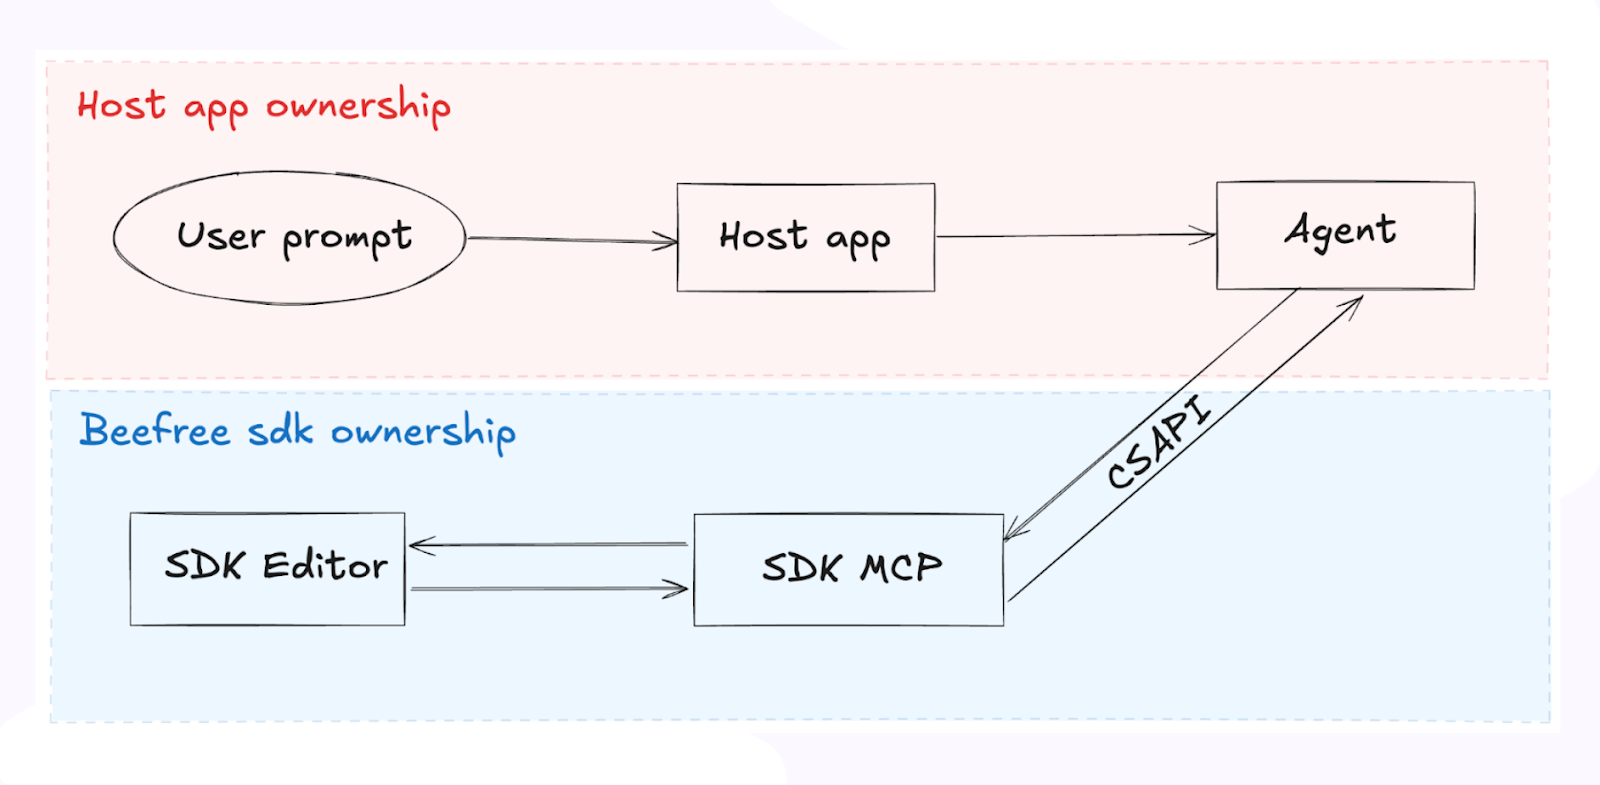
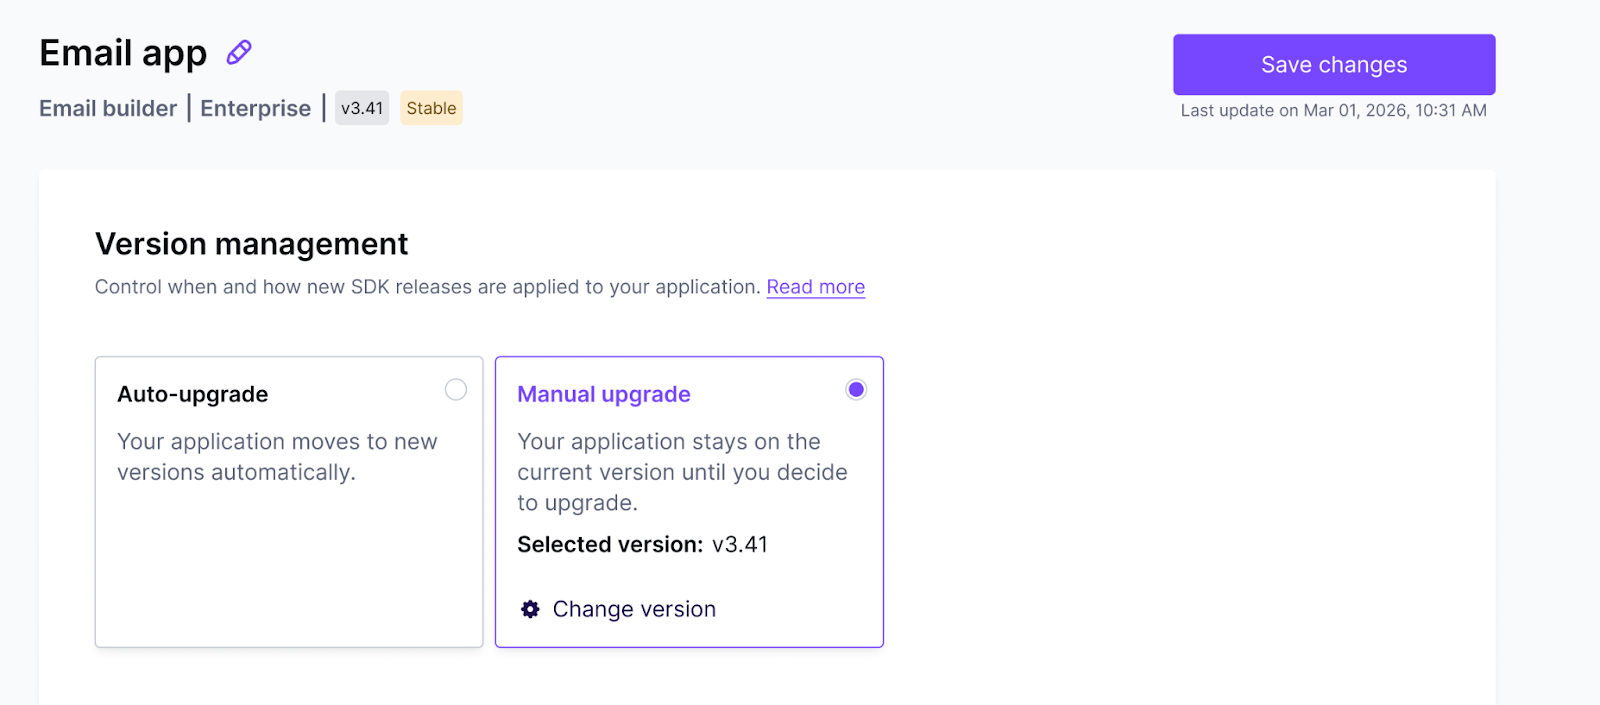
GITBOOK-569: EVC docs update

diff --git a/getting-started/version-control.md b/getting-started/version-control.md
@@ -1,0 +1,135 @@
+---
+description: >-
+  Learn more about our release lifecycle and how you can control which SDK
+  version applies to your application.
+---
+
+# Version Control
+
+{% hint style="info" %}
+Version Control will be available for customers [Enterprise plans](https://developers.beefree.io/pricing-plans) starting June, 2026.&#x20;
+
+If you’re on another plan type, the latest version of the Beefree SDK will automatically apply to your application(s) as soon as it becomes available.
+{% endhint %}
+
+### Overview
+
+Enterprise Version Control gives you control over when Beefree SDK updates are applied to your applications. Rather than receiving releases automatically on Beefree's timeline, you can decide when each new SDK version takes effect — per application, on your own schedule. This includes both Development and Production applications.
+
+Because you have control over the SDK release timing, you can, for example:&#x20;
+
+* Decide if you’d like to take advantage of new SDK features as soon as possible — or if you prefer fewer releases
+* Give your team more time for QA (and only upgrade your production application once QA in your development application is completed)
+* Align SDK releases with your internal release calendar&#x20;
+* Prevent SDK releases from reaching your production applications during high-traffic periods (e.g. during the holiday season)
+
+### How version control works
+
+#### The version lifecycle
+
+Beefree releases new SDK versions approximately every three weeks. Each SDK version moves through distinct phases:
+
+* **Latest** — When a new version is released, it is marked as the Latest release. It is the most current SDK version available.
+* **Stable** — When the next new version is released, the previous version moves into Stable mode. A Stable version is supported for 8 weeks from that point, meaning every version remains available for a minimum of 11 weeks total.
+* **End of Life** — After 8 weeks in Stable, a version reaches End of Life and is no longer available. If your application is still on a version that reaches End of Life, Beefree will automatically upgrade it to the newest Stable version. You will never be left on an unsupported version.
+
+#### Choosing your update strategy
+
+Each application is versioned independently. If you have multiple applications, you can point each one to a different version.&#x20;
+
+You manage version settings for your application(s) via the SDK Developer Console. Visit your application’s details, then select “Version” to enter version management settings.&#x20;
+
+From here, you can choose between two approaches for version management: Manual upgrade or Auto-upgrade:
+
+<figure><img src="../.gitbook/assets/version-control-modes.png" alt=""><figcaption></figcaption></figure>
+
+#### Manual upgrade
+
+When you select manual mode, we won’t automatically upgrade your applications. Instead, you will have to select which version you’d like to apply to your application:&#x20;
+
+<figure><img src="../.gitbook/assets/version-control-manual-upgrade.png" alt=""><figcaption></figcaption></figure>
+
+Here, you can see all available versions with their status (Latest or Stable), the date it was released, and when we expect it to reach End of Life. Click “More Details” if you’d like to see a detailed breakdown of what new features, improvements, and fixes are included in each version.&#x20;
+
+Once you select a version, you can decide how you’d like to handle open user sessions as you upgrade:&#x20;
+
+* **Apply immediately:** Your users with open sessions will be prompted to reload the page. The new version takes effect right away.
+* **On next session:** The new version applies the next time a user starts a new session (or within \~12 hours of a session start, based on session expiry).&#x20;
+
+For most cases, "on next session" is the lower-friction choice. Use "apply immediately" when a version change needs to take effect without delay.
+
+{% hint style="warning" %}
+**What happens when a version reaches End of Life?**\
+If you’ve selected Manual Mode and your application is on a version that reaches End of Life, we will automatically upgrade your application to the newest Stable version. You will never be left on an unsupported version.
+{% endhint %}
+
+#### Auto-upgrade
+
+Automatic-upgrade mode keeps your applications updated without manual intervention. You choose the update rule that best fits your preference:
+
+<figure><img src="../.gitbook/assets/image (1).png" alt="Beefree SDK Version Control: Automatic upgrades" width="472"><figcaption><p>Auto-upgrade in the Version Control settings of the Beefree SDK Console</p></figcaption></figure>
+
+<table data-header-hidden><thead><tr><th width="352">Option</th><th>Behavior</th></tr></thead><tbody><tr><td><strong>Option</strong></td><td><strong>Behavior</strong></td></tr><tr><td>Always up-to-date</td><td>Your application updates to the newest SDK version as soon as it is released. Choose this if you’d like to take advantage of new SDK features and updates without delay. </td></tr><tr><td>Stable releases only</td><td>Your application updates as soon as a new version moves into Stable mode. </td></tr><tr><td>Longest stability</td><td>Your application remains on the current version until it reaches End of Life, at which point it upgrades automatically to the newest Stable version. Choose this option if you prefer stability with fewer releases (and if you’re okay with skipping versions along the way) </td></tr></tbody></table>
+
+#### Default behavior
+
+By default, your applications are set to upgrade in Automatic Mode, and the following rules apply:&#x20;
+
+| **Application type**                        | **Default upgrade mode**                                                                                   |
+| ------------------------------------------- | ---------------------------------------------------------------------------------------------------------- |
+| Enterprise Development / Child apps         | As soon as possible: Development applications update to a new version as soon as it is released.           |
+| Enterprise Production / Parent applications | As soon as it's Stable: Production apps update as soon as a new version enters Stable mode.                |
+| Non-Enterprise applications                 | Latest (always). Non Enterprise customers don’t have the option to adjust the version or release schedule. |
+
+### Version history
+
+In the version management settings, you can also check an application’s version history. This overview shows you:<br>
+
+* When a version was applied to your app
+* What status was the version in when it was applied to your application
+* The upgrade type. This shows if the upgrade happened automatically, or through manual mode. If it was a manual update, you’ll also see which user made the change.&#x20;
+
+<figure><img src="../.gitbook/assets/beefree-sdk-version-history.png" alt=""><figcaption></figcaption></figure>
+
+### What's covered by versioning
+
+Enterprise Version Control covers the Beefree services that receive the most frequent updates:
+
+| Service                             | Description                                                                                                                       |
+| ----------------------------------- | --------------------------------------------------------------------------------------------------------------------------------- |
+| Beefree SDK frontend                | The user-facing drag-and-drop Builder and File Manager interface. It’s the part of the Beefree SDK that is loaded in the browser. |
+| HTML generation service             | The microservice responsible for turning users' designs into reliable and performing HTML.                                        |
+| Authentication and token validation | Manages SDK configurations via /authinfo URL and handles the refresh and validation of tokens.                                    |
+
+We may expand the list of covered services in future releases.
+
+***
+
+## Migration from the legacy Release Candidate model
+
+Previously, Beefree SDK Enterprise Customers received access to a Release Candidate (RC) environment two weeks before a new version went live in Enterprise production environments. While this provided a preview window to test out the latest Beefree SDK version, it didn't give you real control: updates still happened on Beefree's schedule, and we heard from some of you that two weeks wasn't always enough for thorough QA or release coordination.
+
+When we start rolling out Enterprise Version Control, it will replace this old model entirely. The RC environment will be fully retired in H2 2026. In its place, you get a versioned SDK with a [defined lifecycle](version-control.md#the-version-lifecycle) — and the flexibility to choose exactly when each version is applied to each of your applications.
+
+#### When does this change happen, and what do I need to know?
+
+We will begin migrating Enterprise customers to the new Enterprise Version Control infrastructure on June 3, 2026.
+
+On this date, the [default settings for Automatic Mode](version-control.md#default-behavior) will apply to your applications. Let’s recap what that means:&#x20;
+
+* **Development applications:** Your development applications will update to the newest SDK version (“Latest”) as soon as it is released. That means you always have the latest version of the SDK available for testing in your development apps.&#x20;
+* **Production applications:** Production apps update as soon as a new version enters Stable mode—that’s typically three weeks after the version was first released.&#x20;
+
+{% hint style="warning" %}
+These default settings largely replicate what you’ve experienced with our legacy Release Candidate (RC) approach: You get to test out the newest release in your development application before it gets pushed to your production application with a delay.&#x20;
+
+Please note: In our legacy release flow, there was typically a 2-week window between RC release and the delayed Enterprise production release. The new default settings under Enterprise Version control expand that period to three weeks.&#x20;
+{% endhint %}
+
+If you’re happy with these default settings, there’s nothing for you to do.&#x20;
+
+If you prefer a different behavior for automatic upgrades, or if you’d like to handle any version changes manually, visit the Version Control section in your applications’ settings to adjust the upgrade behavior to your preference.&#x20;
+
+#### Questions? We’re here to help.&#x20;
+
+If you have any questions about Enterprise Version Control or the migration process from our legacy Release Candidate approach, please reach out to your CSM or email us at [sdksupport@beefree.io](mailto:sdksupport@beefree.io).<br>

diff --git a/other-customizations/advanced-options/font-management.md b/other-customizations/advanced-options/font-management.md
@@ -54,6 +54,8 @@ Here is a more detailed description on how the editorFonts object is built:
 
 <table><thead><tr><th width="220">Parameter</th><th>Description</th></tr></thead><tbody><tr><td><code>showDefaultsFonts</code></td><td>This boolean parameter indicates if the entire list of default fonts is available or not. When the value is false, only the fonts added as custom fonts will be active in the editor.</td></tr><tr><td><code>customFonts</code></td><td>When the default font parameter is true, the custom fonts declared inside this object will be added to the list of default fonts: both are loaded into the editor. Otherwise, only custom fonts will be shown.<br>Each <code>customFonts</code> element can have the following properties:</td></tr><tr><td>Parameter</td><td>Description</td></tr><tr><td><code>name</code></td><td>This string will be shown in the font dropdown list. You can use the term you prefer and we suggest the usage of common font names, but you can go creative and use semantic names that fit on your application. Long strings may impact the interface, so we recommend to keep it short. The characters { } [ ] : ” / \ | ? * are invalid.</td></tr><tr><td><code>fontFamily</code></td><td>Describes the CSS font stack that will be applied to the final HTML. Is important that you provide at least one fallback font to ensure that the text is not displayed using an unwanted font family. Is important that you use single quote marks with the font names instead of double quotation marks to maintain a correct JSON syntax.</td></tr><tr><td><code>url</code></td><td>This parameter is used only when we work with web fonts. Is important that the URL points to a CSS file with the @font-face properties, and not directly to the font files. To work, the CSS must be hosted in HTTPS.</td></tr><tr><td><code>fontWeight</code></td><td>Adds a new option in the dropdown of the content block’s settings for title, button, paragraph, and list blocks (e.g. 100: Thin). If not defined, only Regular (400) and Bold (700) will be available.</td></tr></tbody></table>
 
+<table><thead><tr><th width="100">Parameter</th><th>Description</th></tr></thead><tbody><tr><td><code>name</code></td><td>This string will be shown in the font dropdown list. You can use the term you prefer and we suggest the usage of common font names, but you can go creative and use semantic names that fit on your application. Long strings may impact the interface, so we recommend to keep it short. The characters { } [ ] : ” / \ | ? * are invalid.</td></tr><tr><td><code>fontFamily</code></td><td>Describes the CSS font stack that will be applied to the final HTML. Is important that you provide at least one fallback font to ensure that the text is not displayed using an unwanted font family. Is important that you use single quote marks with the font names instead of double quotation marks to maintain a correct JSON syntax.</td></tr><tr><td><code>url</code></td><td>This parameter is used only when we work with web fonts. Is important that the URL points to a CSS file with the @font-face properties, and not directly to the font files. To work, the CSS must be hosted in HTTPS.</td></tr><tr><td><code>fontWeight</code></td><td>Adds a new option in the dropdown of the content block’s settings for title, button, paragraph, and list blocks (e.g. 100: Thin). If not defined, only Regular (400) and Bold (700) will be available.</td></tr></tbody></table>
+
 ## Working with custom fonts
 
 When we add a set of custom fonts, we can decide between system fonts and web fonts. Let’s see some details on what you need to know:

diff --git a/getting-started/release-candidate-environment.md b/getting-started/release-candidate-environment.md
@@ -7,7 +7,9 @@ description: >-
 # Release Candidate Environment
 
 {% hint style="info" %}
-The Release Candidate Environment is available on [Enterprise plans.](https://developers.beefree.io/pricing-plans)
+The Release Candidate Environment is available on [Enterprise plans.](https://developers.beefree.io/pricing-plans) \
+\
+As of June, 2026, we're replacing our legacy Release Candidate environment with a more flexible approach to Version Control. [Learn more.](version-control.md)&#x20;
 {% endhint %}
 
 ## Overview

diff --git a/SUMMARY.md b/SUMMARY.md
@@ -21,6 +21,7 @@
 * [Tracking Message Changes](getting-started/tracking-message-changes.md)
 * [Sample Code](getting-started/sample-code.md)
 * [Release Candidate Environment](getting-started/release-candidate-environment.md)
+* [Version Control](getting-started/version-control.md)
 
 ## Quickstart Guides
 
